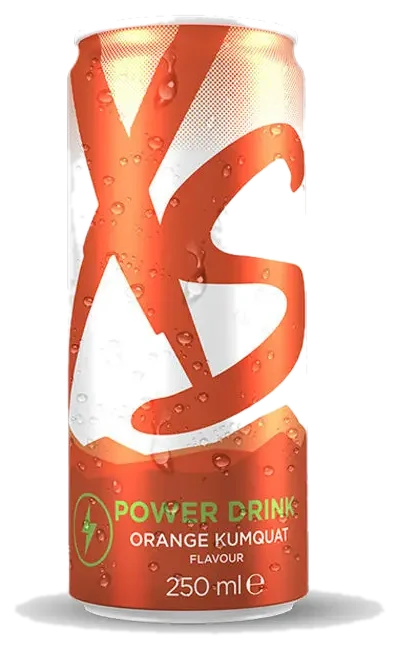
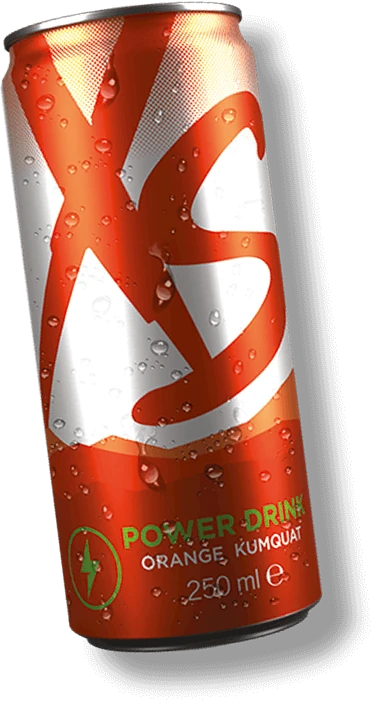
Corrige el recorte de las latas y el header descentrado al hacer scroll
Las 6 latas de XS Energy tenían la boquilla superior mutilada: mi recorte
de fondo confundía el reflejo metálico brillante del borde con el fondo
blanco de estudio y se comía parte del canto, sobre todo en Wild Berry y
Pink Grapefruit. Las reconstruyo a partir de los recortes con transparencia
nativa ya incluidos en el dossier oficial (en vez de recortar yo el fondo),
enderezando con rotación los que venían en ángulo — mismo resultado limpio
que ya tenía Tropical, ahora en las seis.

También corrige el header: al hacer scroll, "mx-4" sustituía a "mx-auto"
(mismo grupo de utilidades en Tailwind) y el menú dejaba de estar
centrado, quedando pegado a la izquierda. Basta con quitar el mx-4
redundante — max-w-6xl + mx-auto ya centra el pill con el hueco visual
que se buscaba.

diff --git a/src/components/layout/Header.tsx b/src/components/layout/Header.tsx
@@ -91,7 +91,7 @@ export function Header() {
       <div
         className={cn(
           "mx-auto flex max-w-7xl items-center justify-between rounded-full px-5 transition-all duration-500 sm:px-8",
-          scrolled ? "glass max-w-6xl py-2.5 mx-4 shadow-[0_8px_30px_rgba(28,26,22,0.08)]" : "py-1"
+          scrolled ? "glass max-w-6xl py-2.5 shadow-[0_8px_30px_rgba(28,26,22,0.08)]" : "py-1"
         )}
       >
         <Link
